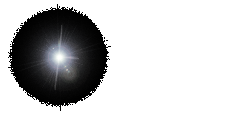
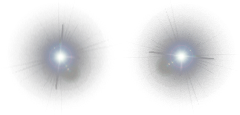
added 8 animated stars

diff --git a/src/com/maxlord/wallpapers/simple/LiveWallpaperService.java b/src/com/maxlord/wallpapers/simple/LiveWallpaperService.java
@@ -2,6 +2,9 @@ package com.maxlord.wallpapers.simple;
 
 import java.io.IOException;
 import java.io.InputStream;
+import java.util.ArrayList;
+import java.util.List;
+import java.util.Random;
 
 import org.andengine.engine.camera.SmoothCamera;
 import org.andengine.engine.options.EngineOptions;
@@ -41,11 +44,15 @@ public class LiveWallpaperService extends BaseLiveWallpaperService implements Sh
 	private ScreenOrientation mScreenOrientation = ScreenOrientation.LANDSCAPE_FIXED;
 	private static final int IMAGE_WIDTH = 1600;
 	private static final int IMAGE_HEIGHT = 1200;
+	private static final int MAX_STARS = 8;
+	private static final long RANDOM_SEED = 1234567890;
 	private SmoothCamera camera;
 	private ITexture mTexture;
 	private ITextureRegion mBackgroundTextureRegion;
 	private BuildableBitmapTextureAtlas mBitmapTextureAtlas;
 	private TiledTextureRegion mStarTextureRegion;
+	private List<TiledTextureRegion> stars = new ArrayList<TiledTextureRegion>(MAX_STARS);
+	final Random random = new Random(RANDOM_SEED);
 
 	private Scene scene;
 
@@ -103,11 +110,19 @@ public class LiveWallpaperService extends BaseLiveWallpaperService implements Sh
 		scene.setBackground(new Background(0.09804f, 0.6274f, 0.8784f));
 		backgroundSprite = new Sprite(0, 0, this.mBackgroundTextureRegion, this.getVertexBufferObjectManager());
 		scene.attachChild(backgroundSprite);
-		AnimatedSprite star = new AnimatedSprite(100, 50, this.mStarTextureRegion, this.getVertexBufferObjectManager());
-		star.animate(100);
-		scene.attachChild(star);
+		createStars();
 		//lines();
 		pOnCreateSceneCallback.onCreateSceneFinished(scene);
+	}
+
+	private void createStars() {
+		for(int i=0; i< MAX_STARS; i++){
+			float x = random.nextFloat() * IMAGE_WIDTH;
+			float y = random.nextFloat() * IMAGE_HEIGHT;
+			final AnimatedSprite star = new AnimatedSprite(x, y, this.mStarTextureRegion, this.getVertexBufferObjectManager());
+			star.animate(100);
+			scene.attachChild(star);
+		}		
 	}
 
 	private void lines() {
